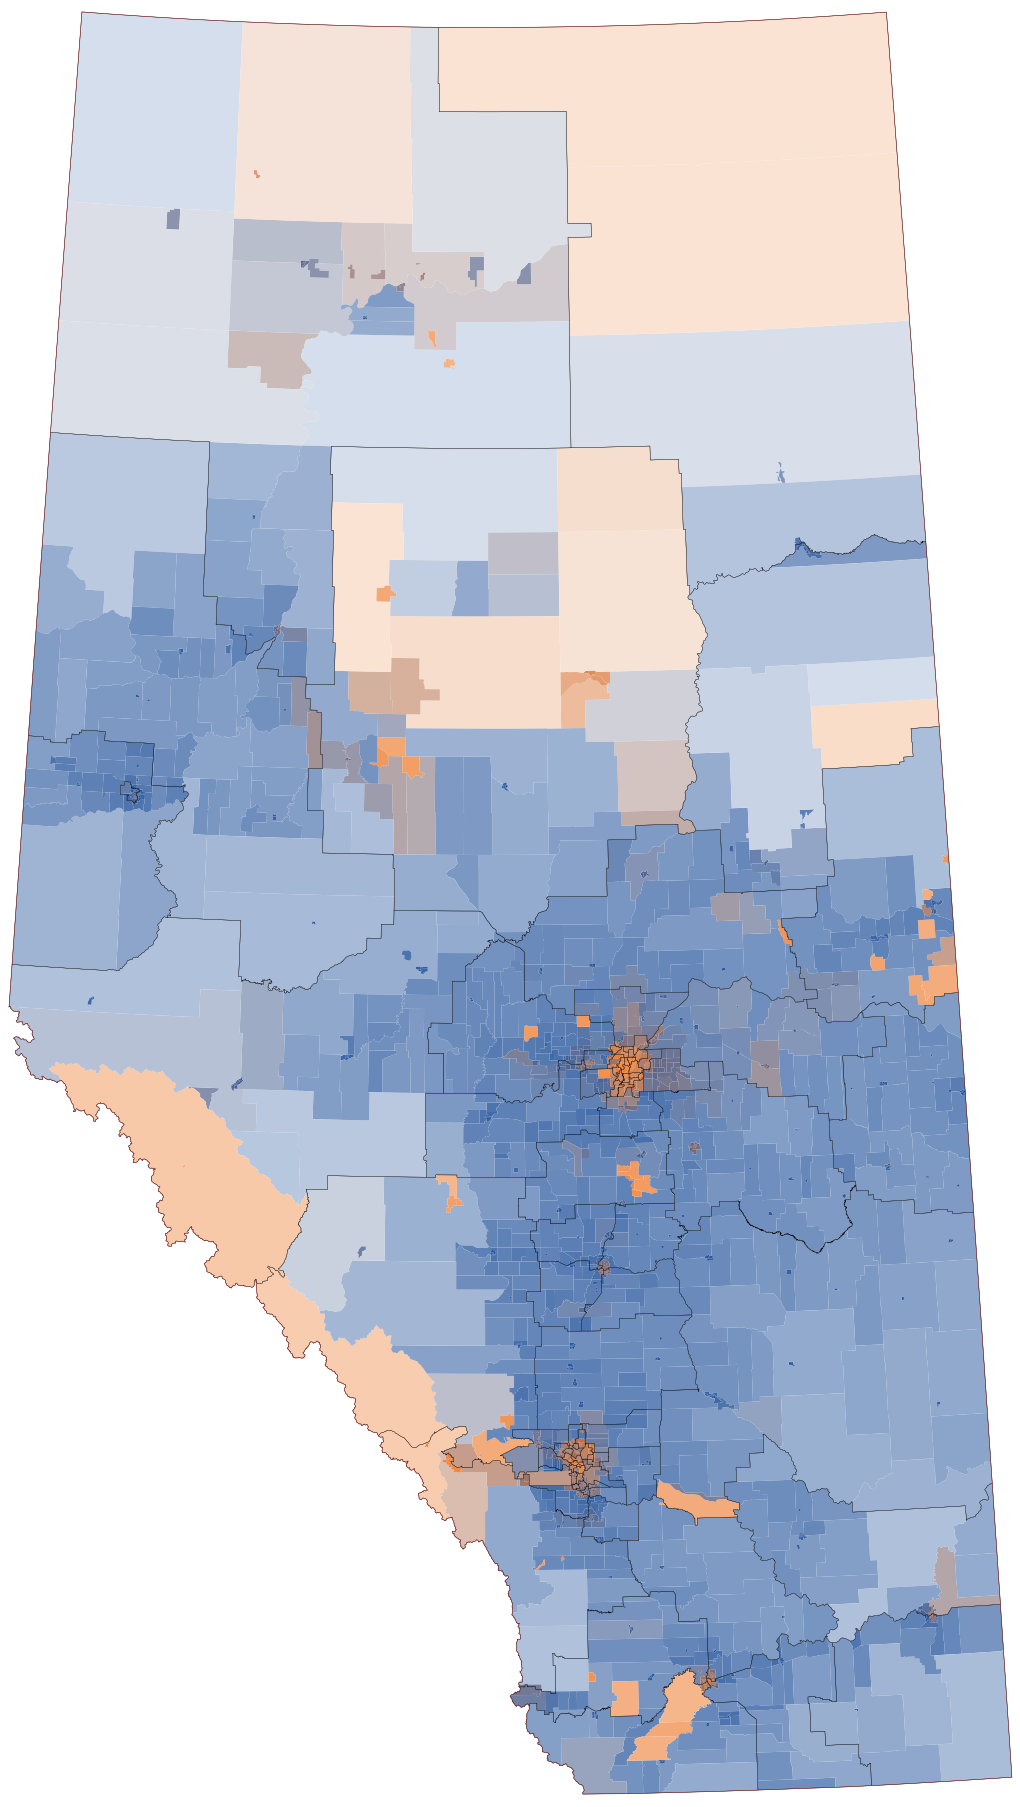
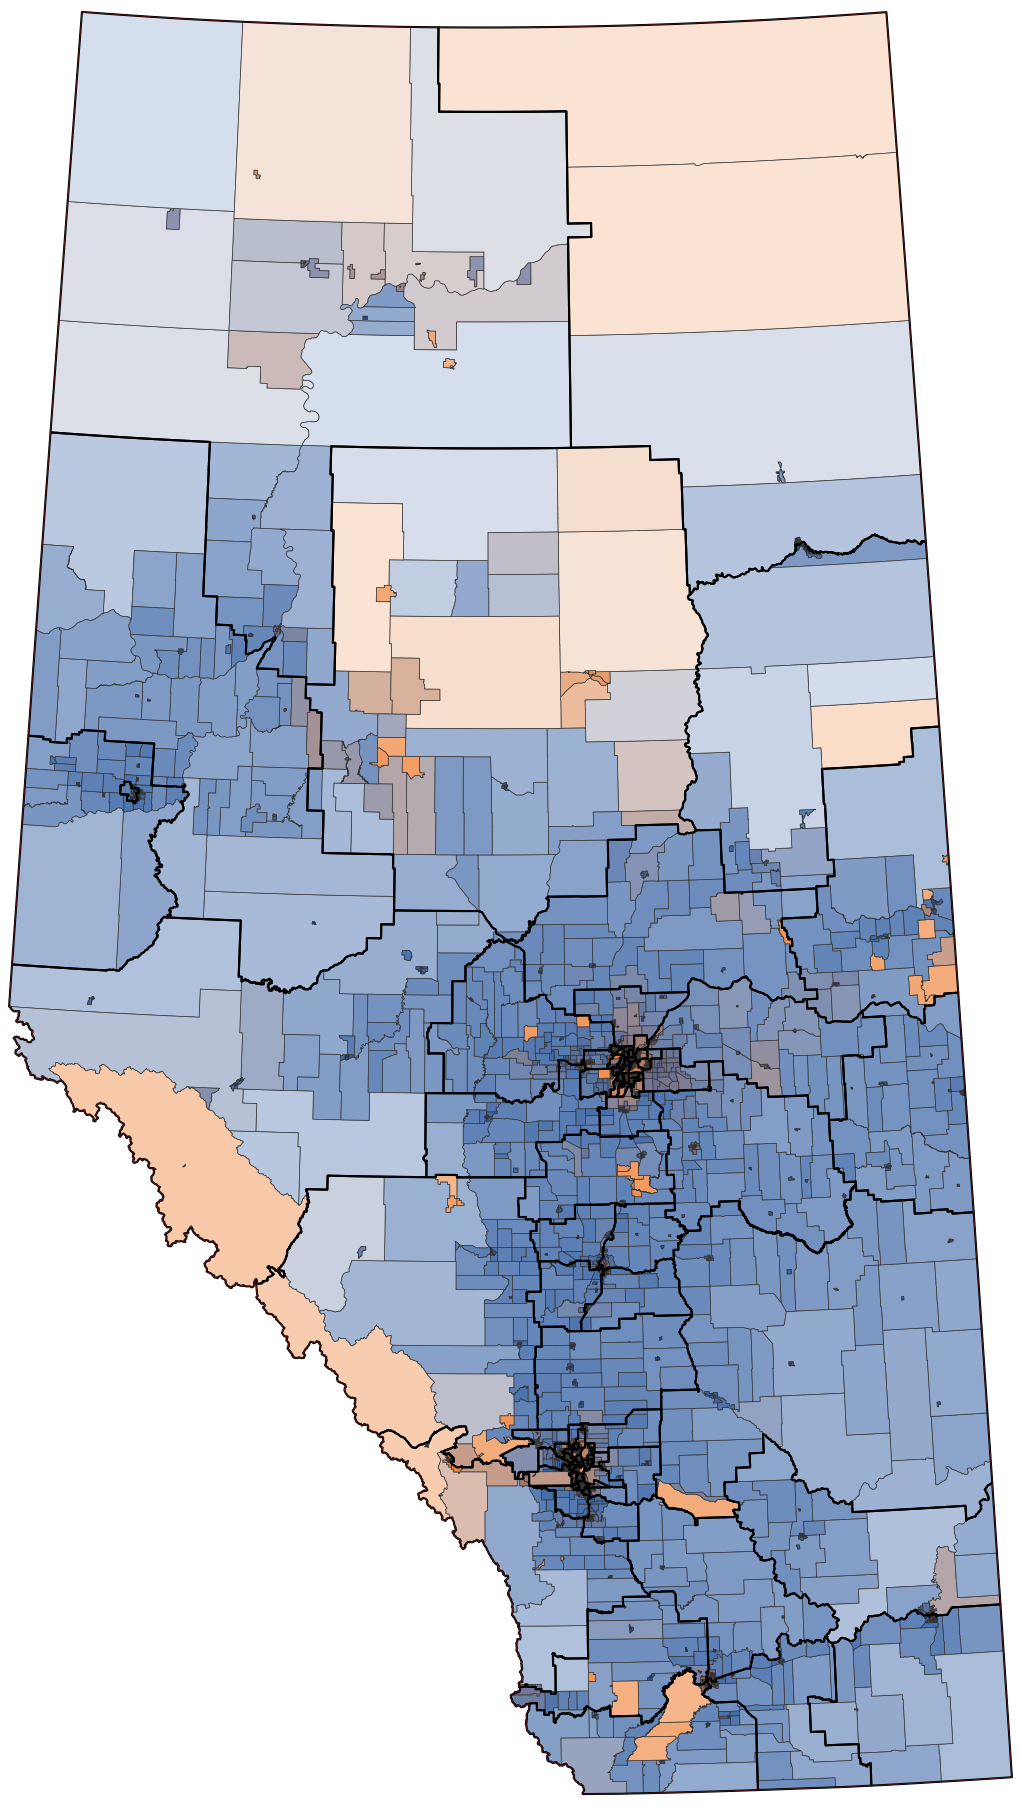
fix(zoom): rAF-batched viewBox, cached rect; cover line weights
Zoom smoothness:
- applyVB now batches setAttribute('viewBox') into one requestAnimationFrame
  per frame — coalesces rapid wheel/pointermove events into a single paint
  instead of forcing a layout flush on each event
- stage.getBoundingClientRect() cached as _stageRect; invalidated on open()
  and resize to avoid repeated synchronous layout in hot paths

Cover line weights:
- ED boundaries: 0.1 -> 0.75 (districts now clearly legible)
- VA boundaries: none -> #333333 at 0.25 (VA tessellation subtly visible
  under the ED overlay, reinforcing the population-density heatmap signal)

Regenerated cover_art_hires.svg, cover_art.png, ed_hover.json.

diff --git a/docs/index.html b/docs/index.html
@@ -1015,8 +1015,17 @@
     let natVB = null;  // { x, y, w, h } — SVG's full coordinate space
     let curVB = null;
 
+    // Cache stage rect so wheel/pointermove don't force synchronous layout.
+    // Invalidated on open and resize.
+    let _stageRect = null;
+    function _getStageRect() {
+      return _stageRect || (_stageRect = stage.getBoundingClientRect());
+    }
+    window.addEventListener('resize', () => { _stageRect = null; });
+
     function _renderBounds() {
-      const sw = stage.offsetWidth, sh = stage.offsetHeight;
+      const r = _getStageRect();
+      const sw = r.width, sh = r.height;
       const ar = natVB.w / natVB.h;
       let rw, rh;
       if (ar < sw / sh) { rh = sh; rw = sh * ar; }
@@ -1024,10 +1033,18 @@
       return { rw, rh, ox: (sw - rw) / 2, oy: (sh - rh) / 2 };
     }
 
+    // Batch viewBox writes to one per animation frame — eliminates jank from
+    // high-frequency wheel/pointermove events flushing layout on every tick.
+    let _rafId = null;
     function applyVB(vb) {
       curVB = vb;
-      svgEl.setAttribute('viewBox', `${vb.x} ${vb.y} ${vb.w} ${vb.h}`);
-      if (zoomPct) zoomPct.textContent = Math.round(natVB.w / vb.w * 100) + '%';
+      if (_rafId === null) {
+        _rafId = requestAnimationFrame(() => {
+          _rafId = null;
+          svgEl.setAttribute('viewBox', `${curVB.x} ${curVB.y} ${curVB.w} ${curVB.h}`);
+          if (zoomPct) zoomPct.textContent = Math.round(natVB.w / curVB.w * 100) + '%';
+        });
+      }
     }
 
     function resetVB() { applyVB({ ...natVB }); }
@@ -1146,6 +1163,7 @@
 
     // ── Open / close ──────────────────────────────────────────────────────
     function open() {
+      _stageRect = null;  // stage may have reflowed since last open
       overlay.style.display = 'block';
       document.body.style.overflow = 'hidden';
       if (!ready) return;
@@ -1180,7 +1198,7 @@
 
     stage.addEventListener('wheel', e => {
       e.preventDefault();
-      const r = stage.getBoundingClientRect();
+      const r = _getStageRect();
       zoomAt(e.clientX - r.left, e.clientY - r.top, e.deltaY < 0 ? 1.12 : 1 / 1.12);
     }, { passive: false });
 
@@ -1296,7 +1314,7 @@
                               e.touches[0].clientY - e.touches[1].clientY);
       const midX = (e.touches[0].clientX + e.touches[1].clientX) / 2;
       const midY = (e.touches[0].clientY + e.touches[1].clientY) / 2;
-      const r = stage.getBoundingClientRect();
+      const r = _getStageRect();
       if (lastDist) zoomAt(midX - r.left, midY - r.top, dist / lastDist);
       if (lastMid) {
         const dx = midX - lastMid.x, dy = midY - lastMid.y;

diff --git a/analysis/scripts/build_cover.py b/analysis/scripts/build_cover.py
@@ -397,8 +397,8 @@ def build_cover_art() -> Path:
     va_render.plot(
         ax=ax,
         color=va_render["_fill"].tolist(),
-        edgecolor="none",
-        linewidth=0,
+        edgecolor="#333333",
+        linewidth=0.25,
         rasterized=False,
     )
 
@@ -407,7 +407,7 @@ def build_cover_art() -> Path:
     eds.boundary.plot(
         ax=ax,
         edgecolor="#000000",
-        linewidth=0.1,
+        linewidth=0.75,
         rasterized=False,
     )
 